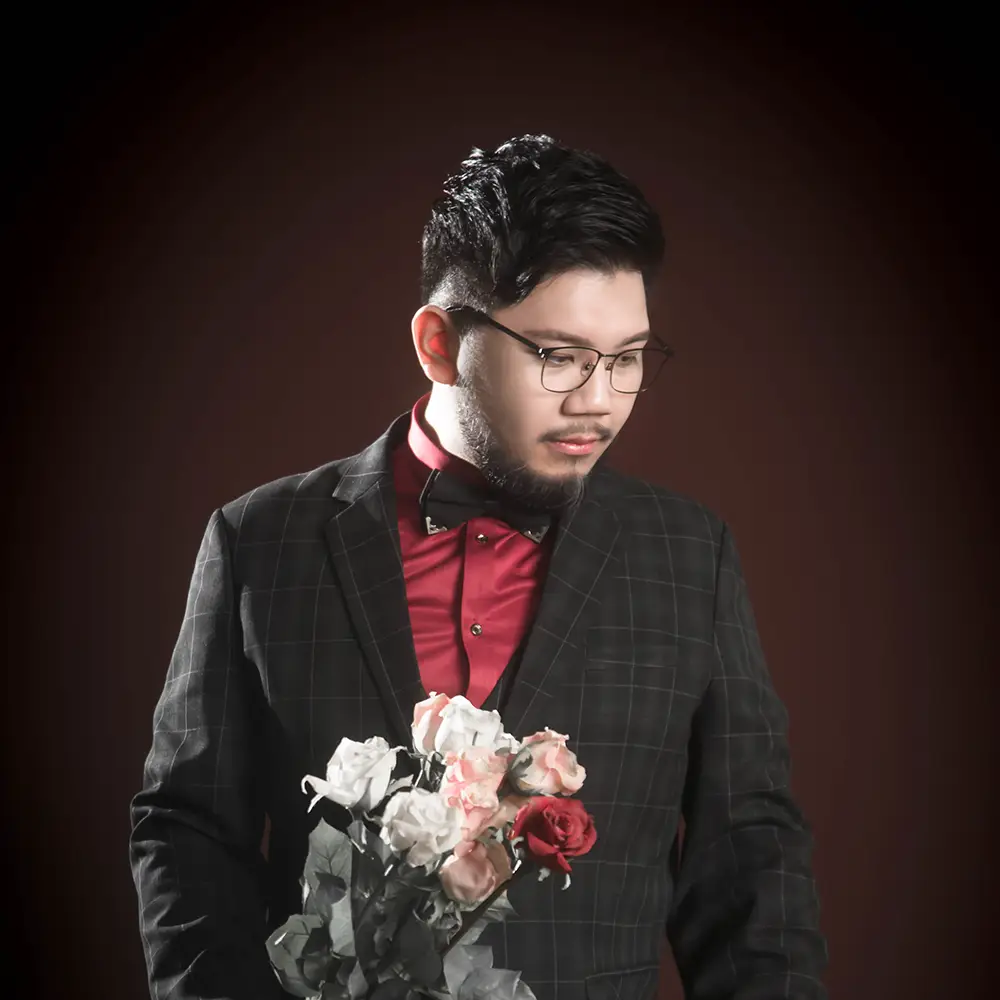
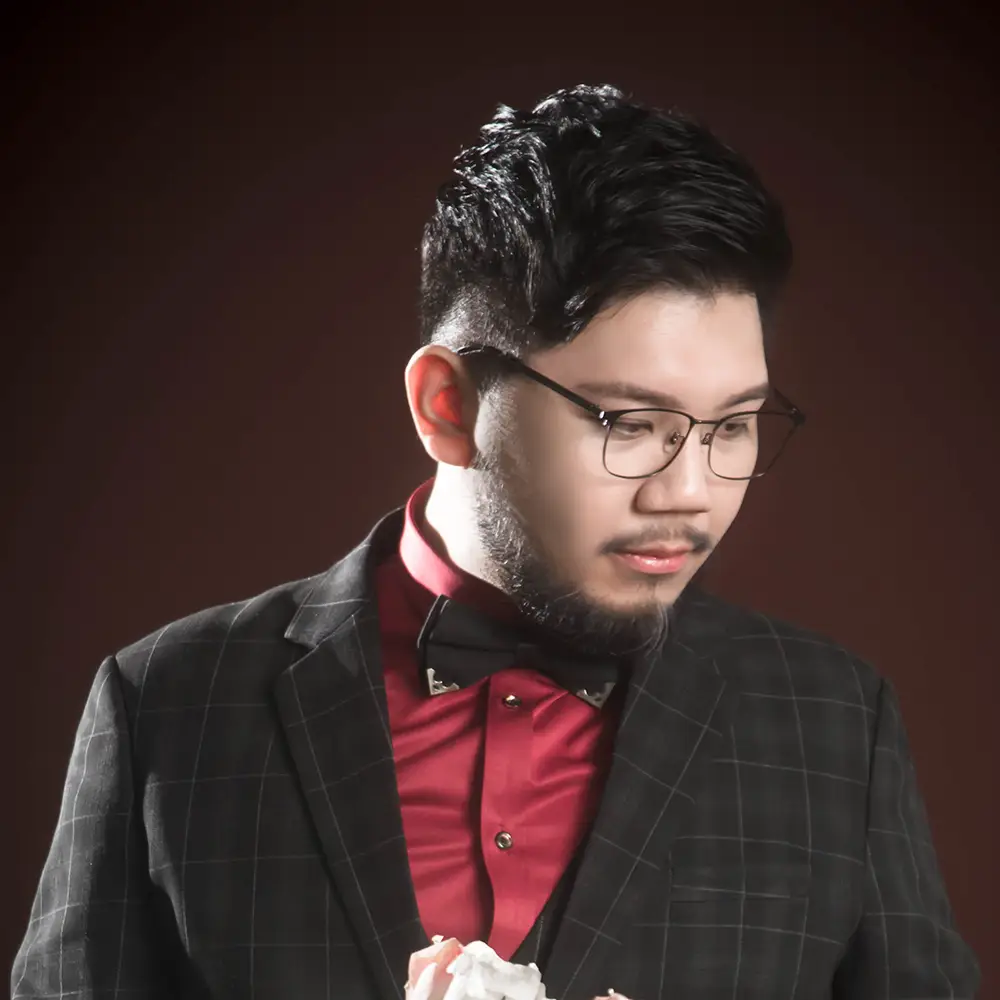
upload image

diff --git a/index.html b/index.html
@@ -185,7 +185,7 @@
                 <div class="layer wh100 hidden-link hover-animation animate__delay-05s fade-in">
                   <div class="alignment">
                     <div class="v-align center-middle">
-                      <a href="./images/1365x1365.png" class="magnific-zoom" aria-label="Groom Photo">
+                      <a href="./images/him_big.webp" class="magnific-zoom" aria-label="Groom Photo">
                         <div class="de-icon circle light medium-size inline">
                           <i class="fa-solid fa-plus"></i>
                         </div>
@@ -229,7 +229,7 @@
                 <div class="layer wh100 hidden-link hover-animation animate__delay-05s fade-in">
                   <div class="alignment">
                     <div class="v-align center-middle">
-                      <a href="./images/1365x1365.png" class="magnific-zoom" aria-label="Bride Photo">
+                      <a href="./images/her_big.webp" class="magnific-zoom" aria-label="Bride Photo">
                         <div class="de-icon circle light medium-size inline">
                           <i class="fa-solid fa-plus"></i>
                         </div>
@@ -380,7 +380,7 @@
               <!--PHOTO-ITEM-->
               <div class="photo-item frame-border animation fadeIn">
                 <!--PHOTO-->
-                <img src="./images/1365x1365.png" alt="" class="hover-animation image-zoom-rotate" loading="lazy" />
+                <img src="./images/gallery-1.webp" alt="" class="hover-animation image-zoom-rotate" loading="lazy" />
 
                 <!--PHOTO OVERLAY-->
                 <div class="layer wh100 hidden-black-overlay hover-animation fade-in"></div>
@@ -390,7 +390,7 @@
                 <div class="layer wh100 hidden-link hover-animation animate__delay-05s fade-in">
                   <div class="alignment">
                     <div class="v-align center-middle">
-                      <a href="./images/1365x1365.png" class="magnific-zoom-gallery" title="Gallery 1">
+                      <a href="./images/gallery-1-lg.webp" class="magnific-zoom-gallery" title="Gallery 1">
                         <div class="de-icon circle light medium-size inline">
                           <i class="fa-solid fa-plus"></i>
                         </div>
@@ -419,7 +419,7 @@
                 <div class="layer wh100 hidden-link hover-animation animate__delay-05s fade-in">
                   <div class="alignment">
                     <div class="v-align center-middle">
-                      <a href="./images/1365x1365.png" class="magnific-zoom-gallery" title="Gallery 2">
+                      <a href="./images/gallery-2-lg.webp" class="magnific-zoom-gallery" title="Gallery 2">
                         <div class="de-icon circle light medium-size inline">
                           <i class="fa-solid fa-plus"></i>
                         </div>
@@ -448,7 +448,7 @@
                 <div class="layer wh100 hidden-link hover-animation animate__delay-05s fade-in">
                   <div class="alignment">
                     <div class="v-align center-middle">
-                      <a href="./images/1365x1365.png" class="magnific-zoom-gallery" title="Gallery 3">
+                      <a href="./images/gallery-3-lg.webp" class="magnific-zoom-gallery" title="Gallery 3">
                         <div class="de-icon circle light medium-size inline">
                           <i class="fa-solid fa-plus"></i>
                         </div>
@@ -467,7 +467,7 @@
               <!--PHOTO-ITEM-->
               <div class="photo-item frame-border animation fadeIn">
                 <!--PHOTO-->
-                <img src="./images/1365x1365.png" alt="" class="hover-animation image-zoom-rotate" loading="lazy" />
+                <img src="./images/gallery-4.webp" alt="" class="hover-animation image-zoom-rotate" loading="lazy" />
 
                 <!--PHOTO OVERLAY-->
                 <div class="layer wh100 hidden-black-overlay hover-animation fade-in"></div>
@@ -477,7 +477,7 @@
                 <div class="layer wh100 hidden-link hover-animation animate__delay-05s fade-in">
                   <div class="alignment">
                     <div class="v-align center-middle">
-                      <a href="./images/1365x1365.png" class="magnific-zoom-gallery" title="Gallery 4">
+                      <a href="./images/gallery-4-lg.webp" class="magnific-zoom-gallery" title="Gallery 4">
                         <div class="de-icon circle light medium-size inline">
                           <i class="fa-solid fa-plus"></i>
                         </div>
@@ -496,7 +496,7 @@
               <!--PHOTO-ITEM-->
               <div class="photo-item frame-border animation fadeIn">
                 <!--PHOTO-->
-                <img src="./images/1365x1365.png" alt="" class="hover-animation image-zoom-rotate" loading="lazy" />
+                <img src="./images/gallery-5.webp" alt="" class="hover-animation image-zoom-rotate" loading="lazy" />
 
                 <!--PHOTO OVERLAY-->
                 <div class="layer wh100 hidden-black-overlay hover-animation fade-in"></div>
@@ -506,7 +506,7 @@
                 <div class="layer wh100 hidden-link hover-animation animate__delay-05s fade-in">
                   <div class="alignment">
                     <div class="v-align center-middle">
-                      <a href="./images/1365x1365.png" class="magnific-zoom-gallery" title="Gallery 5">
+                      <a href="./images/gallery-5-lg.webp" class="magnific-zoom-gallery" title="Gallery 5">
                         <div class="de-icon circle light medium-size inline">
                           <i class="fa-solid fa-plus"></i>
                         </div>
@@ -525,7 +525,7 @@
               <!--PHOTO-ITEM-->
               <div class="photo-item frame-border animation fadeIn">
                 <!--PHOTO-->
-                <img src="./images/1365x1365.png" alt="" class="hover-animation image-zoom-rotate" loading="lazy" />
+                <img src="./images/gallery-6.webp" alt="" class="hover-animation image-zoom-rotate" loading="lazy" />
 
                 <!--PHOTO OVERLAY-->
                 <div class="layer wh100 hidden-black-overlay hover-animation fade-in"></div>
@@ -535,7 +535,7 @@
                 <div class="layer wh100 hidden-link hover-animation animate__delay-05s fade-in">
                   <div class="alignment">
                     <div class="v-align center-middle">
-                      <a href="./images/1365x1365.png" class="magnific-zoom-gallery" title="Gallery 6">
+                      <a href="./images/gallery-6-lg.webp" class="magnific-zoom-gallery" title="Gallery 6">
                         <div class="de-icon circle light medium-size inline">
                           <i class="fa-solid fa-plus"></i>
                         </div>
@@ -554,7 +554,7 @@
               <!--PHOTO-ITEM-->
               <div class="photo-item frame-border animation fadeIn">
                 <!--PHOTO-->
-                <img src="./images/1365x1365.png" alt="" class="hover-animation image-zoom-rotate" loading="lazy" />
+                <img src="./images/gallery-7.webp" alt="" class="hover-animation image-zoom-rotate" loading="lazy" />
 
                 <!--PHOTO OVERLAY-->
                 <div class="layer wh100 hidden-black-overlay hover-animation fade-in"></div>
@@ -564,7 +564,7 @@
                 <div class="layer wh100 hidden-link hover-animation animate__delay-05s fade-in">
                   <div class="alignment">
                     <div class="v-align center-middle">
-                      <a href="./images/1365x1365.png" class="magnific-zoom-gallery" title="Gallery 7">
+                      <a href="./images/gallery-7-lg.webp" class="magnific-zoom-gallery" title="Gallery 7">
                         <div class="de-icon circle light medium-size inline">
                           <i class="fa-solid fa-plus"></i>
                         </div>
@@ -583,7 +583,7 @@
               <!--PHOTO-ITEM-->
               <div class="photo-item frame-border animation fadeIn">
                 <!--PHOTO-->
-                <img src="./images/1365x1365.png" alt="" class="hover-animation image-zoom-rotate" loading="lazy" />
+                <img src="./images/gallery-8.webp" alt="" class="hover-animation image-zoom-rotate" loading="lazy" />
 
                 <!--PHOTO OVERLAY-->
                 <div class="layer wh100 hidden-black-overlay hover-animation fade-in"></div>
@@ -593,7 +593,7 @@
                 <div class="layer wh100 hidden-link hover-animation animate__delay-05s fade-in">
                   <div class="alignment">
                     <div class="v-align center-middle">
-                      <a href="./images/1365x1365.png" class="magnific-zoom-gallery" title="Gallery 8">
+                      <a href="./images/gallery-8-lg.webp" class="magnific-zoom-gallery" title="Gallery 8">
                         <div class="de-icon circle light medium-size inline">
                           <i class="fa-solid fa-plus"></i>
                         </div>
@@ -612,7 +612,7 @@
               <!--PHOTO-ITEM-->
               <div class="photo-item frame-border animation fadeIn">
                 <!--PHOTO-->
-                <img src="./images/1365x1365.png" alt="" class="hover-animation image-zoom-rotate" loading="lazy" />
+                <img src="./images/gallery-9.webp" alt="" class="hover-animation image-zoom-rotate" loading="lazy" />
 
                 <!--PHOTO OVERLAY-->
                 <div class="layer wh100 hidden-black-overlay hover-animation fade-in"></div>
@@ -622,7 +622,7 @@
                 <div class="layer wh100 hidden-link hover-animation animate__delay-05s fade-in">
                   <div class="alignment">
                     <div class="v-align center-middle">
-                      <a href="./images/9_DSC_5199.jpg" class="magnific-zoom-gallery" title="Gallery 9">
+                      <a href="./images/gallery-9-lg.webp" class="magnific-zoom-gallery" title="Gallery 9">
                         <div class="de-icon circle light medium-size inline">
                           <i class="fa-solid fa-plus"></i>
                         </div>
